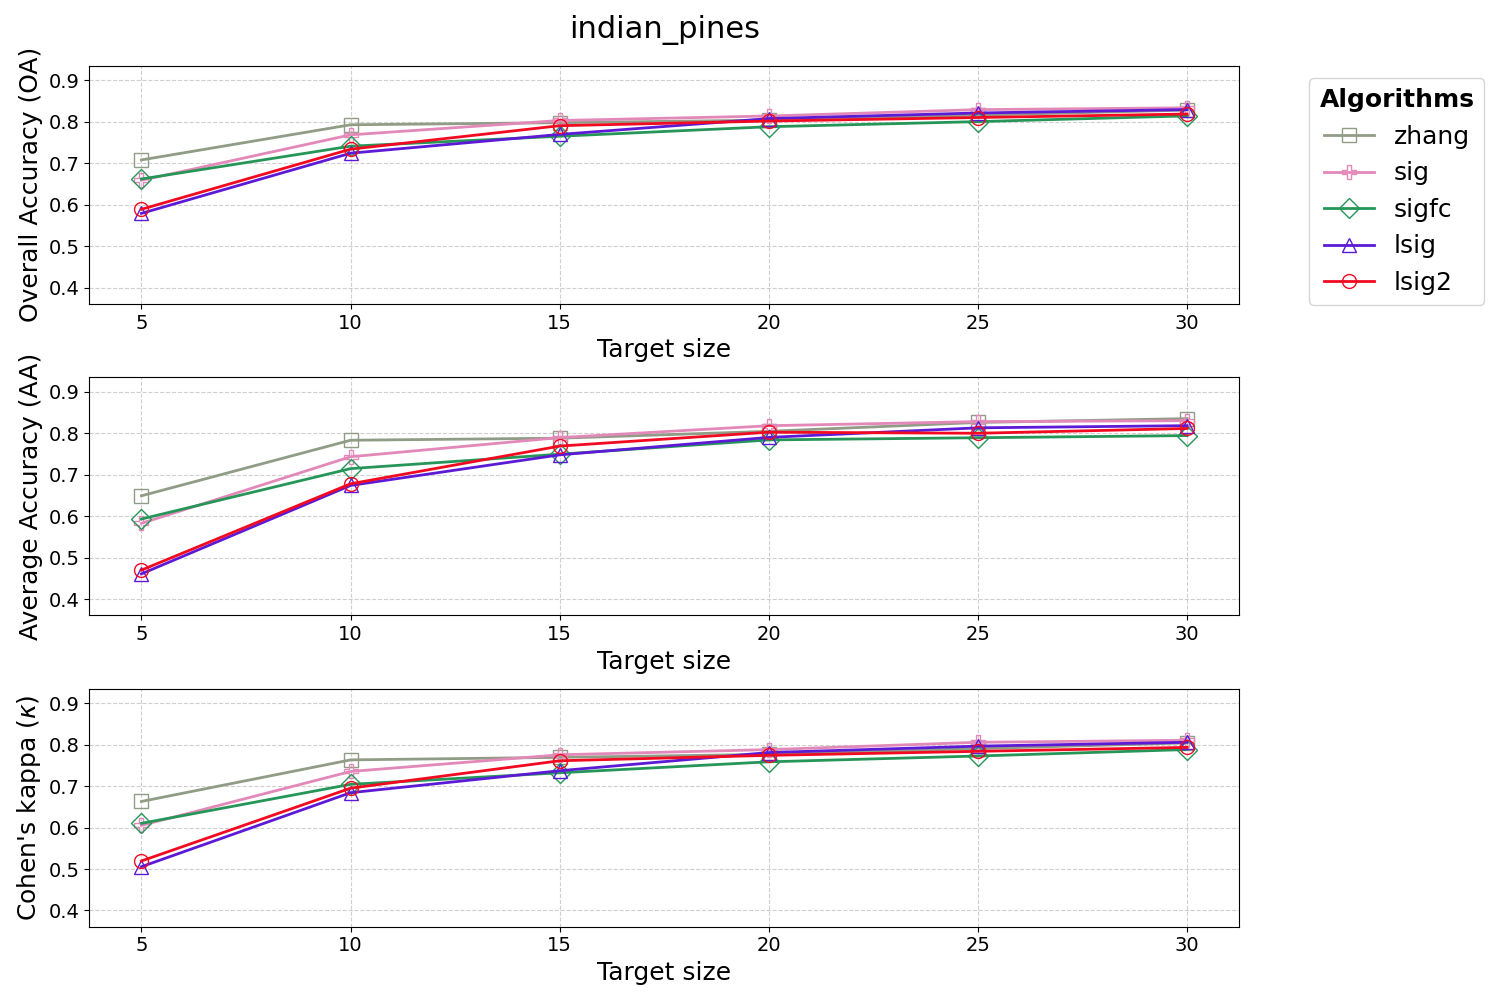
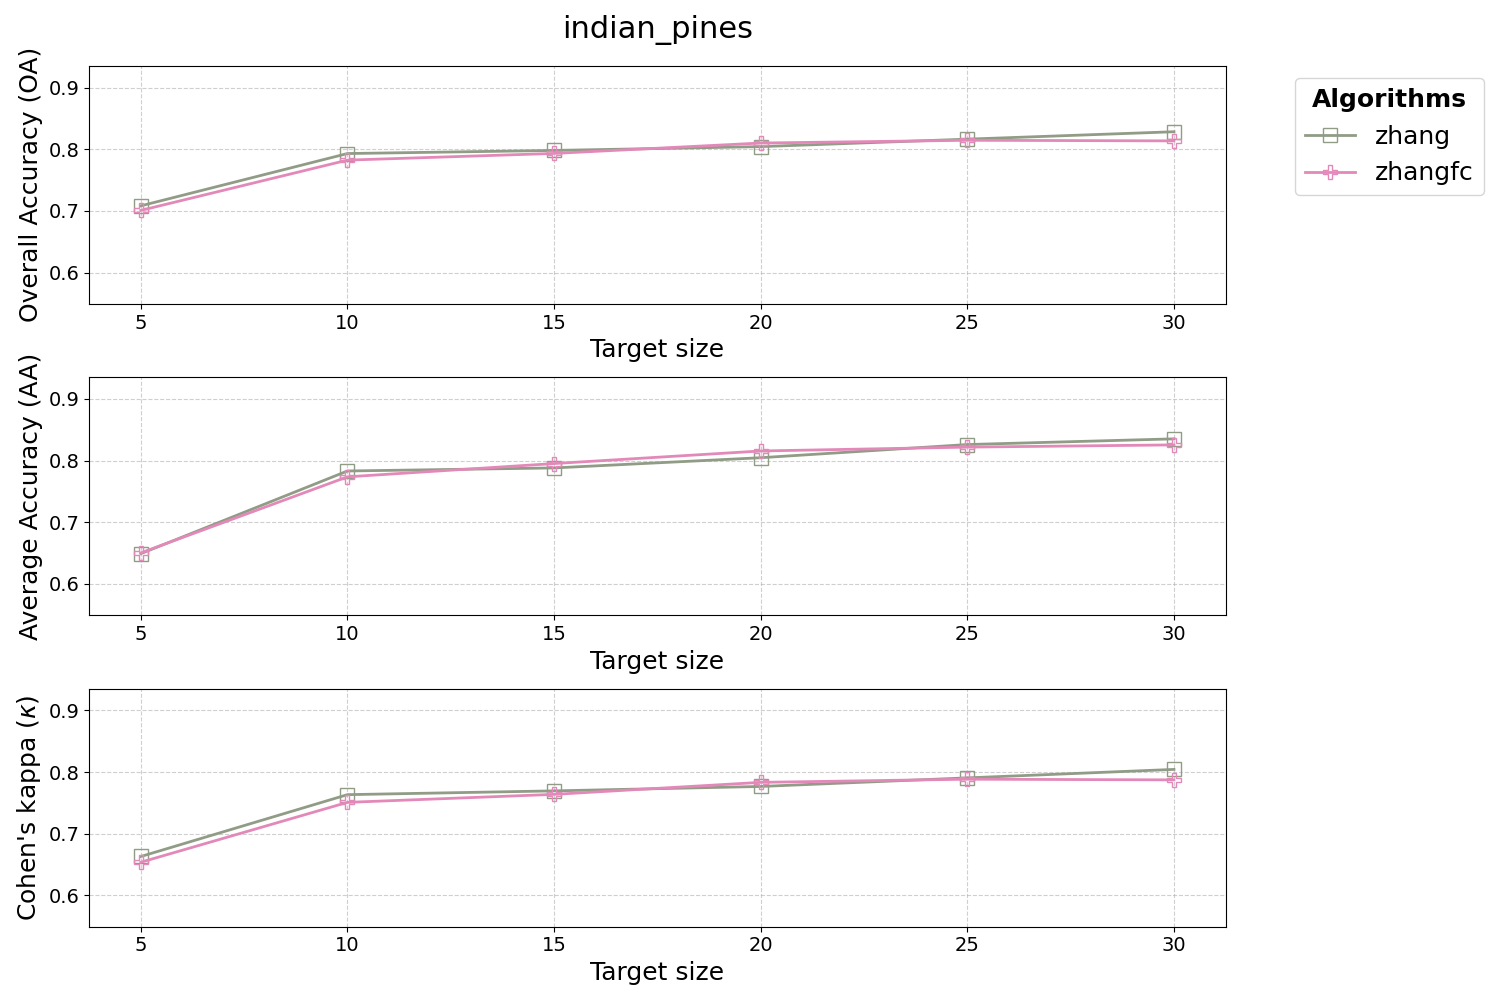
done

diff --git a/oak_plotter.py b/oak_plotter.py
@@ -5,7 +5,8 @@ import matplotlib.pyplot as plt
 
 def plot_oak(source="final_results/final.csv", dest = "saved_figs/oak.png"):
     df_original = pd.read_csv(source)
-    priority_order = ["zhang","sfc","scnn"]
+    priority_order = ["ns","zhang","scnn","sfc","nsfc","zhangfc"]
+    priority_order = ["zhang","zhangfc"]
     display_alg = priority_order
     df_original['algorithm'] = pd.Categorical(df_original['algorithm'], categories=priority_order, ordered=True)
     df_original = df_original.sort_values('algorithm')

diff --git a/oak_csv_creator.py b/oak_csv_creator.py
@@ -103,7 +103,8 @@ def create_csv(name="final",filter=None):
     all_df = pd.DataFrame()
     locations = [os.path.join("saved_results", subfolder) for subfolder in filter]
     locations = [loc for loc in locations if os.path.exists(loc)]
-    algorithms = ["zhang","sfc","scnn"]
+    algorithms = ["ns","zhang","scnn","sfc","nsfc","zhangfc"]
+    algorithms = ["zhang","zhangfc"]
     datasets = ["indian_pines"]
     targets = [5,10,15,20,25,30]
     all_df, main_df = create_dfs(all_df, main_df, locations)

diff --git a/main.py b/main.py
@@ -2,9 +2,9 @@ from task_runner import TaskRunner
 
 if __name__ == '__main__':
     tasks = {
-        "algorithms" : ["zhang","sig","sigfc","lsig","lsig2"],
+        "algorithms" : ["zhangfc","zhang"],
         "datasets" : ["indian_pines"],
         "target_sizes" : [25, 30, 5, 10, 15, 20]
     }
-    ev = TaskRunner(tasks,1,10,"7.csv",skip_all_bands=True)
+    ev = TaskRunner(tasks,1,10,"9.csv",skip_all_bands=True)
     ev.evaluate()

diff --git a/oak.py b/oak.py
@@ -1,5 +1,5 @@
 import oak_csv_creator
 import oak_plotter
 
-csv = oak_csv_creator.create_csv(filter=["4"])
+csv = oak_csv_creator.create_csv(filter=["6"])
 oak_plotter.plot_oak(source=csv)
